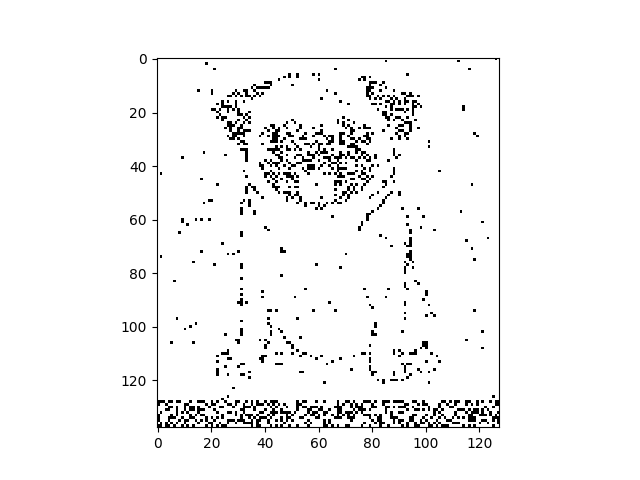
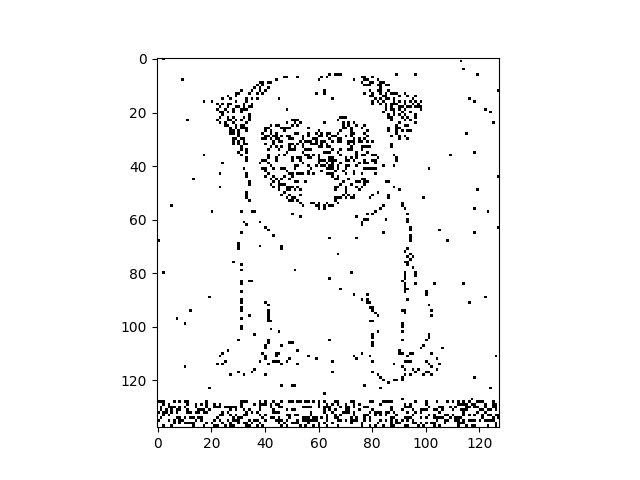
add task3

diff --git a/task3.py b/task3.py
@@ -139,6 +139,7 @@ def icm(i, j, observed_image, drawed_image):
     prob = get_gibbs_probability(neighbours_sum, observed_value)
     #flip
     old_pixel = drawed_image[i][j]
+    
     t = np.random.uniform(-1,1,1)
     if t < prob:
         drawed_image[i][j] = 1
@@ -160,13 +161,17 @@ if __name__ == "__main__":
                 image_noise[i][j] = -1
     observed_image = np.copy(image_noise)
     drawed_image = np.copy(image_noise)
-    for times in range(20):
+    np.random.seed(42)
+    
+    for times in range(5):
+        random_start_list1 = np.sort(np.random.randint(M, size=2))
+        random_start_list2 = np.sort(np.random.randint(N, size=2))
         pixel_change = 0
-        for i in range(M):
-            for j in range(N):
+        for i in range(random_start_list1[0], random_start_list1[1]):
+            for j in range(random_start_list2[0], random_start_list2[1]):
                 pixel_change += icm(i, j, observed_image, drawed_image)
         if pixel_change==0:
             print(times+1)
             
     plt.imshow(drawed_image, cmap='gray')
-    plt.savefig('result/task2/restore3.png')
+    plt.savefig('result/task3/restore3.png')

diff --git a/task1.py b/task1.py
@@ -93,7 +93,7 @@ for results in range(1,4):
     image_noise = add_gaussian_noise(image, prop, varSigma[results-1])
     observed_image = np.copy(image_noise)
     drawed_image = np.copy(image_noise)
-    for times in range(10):
+    for times in range(20):
         pixel_change = 0
         for i in range(M):
             for j in range(N):
